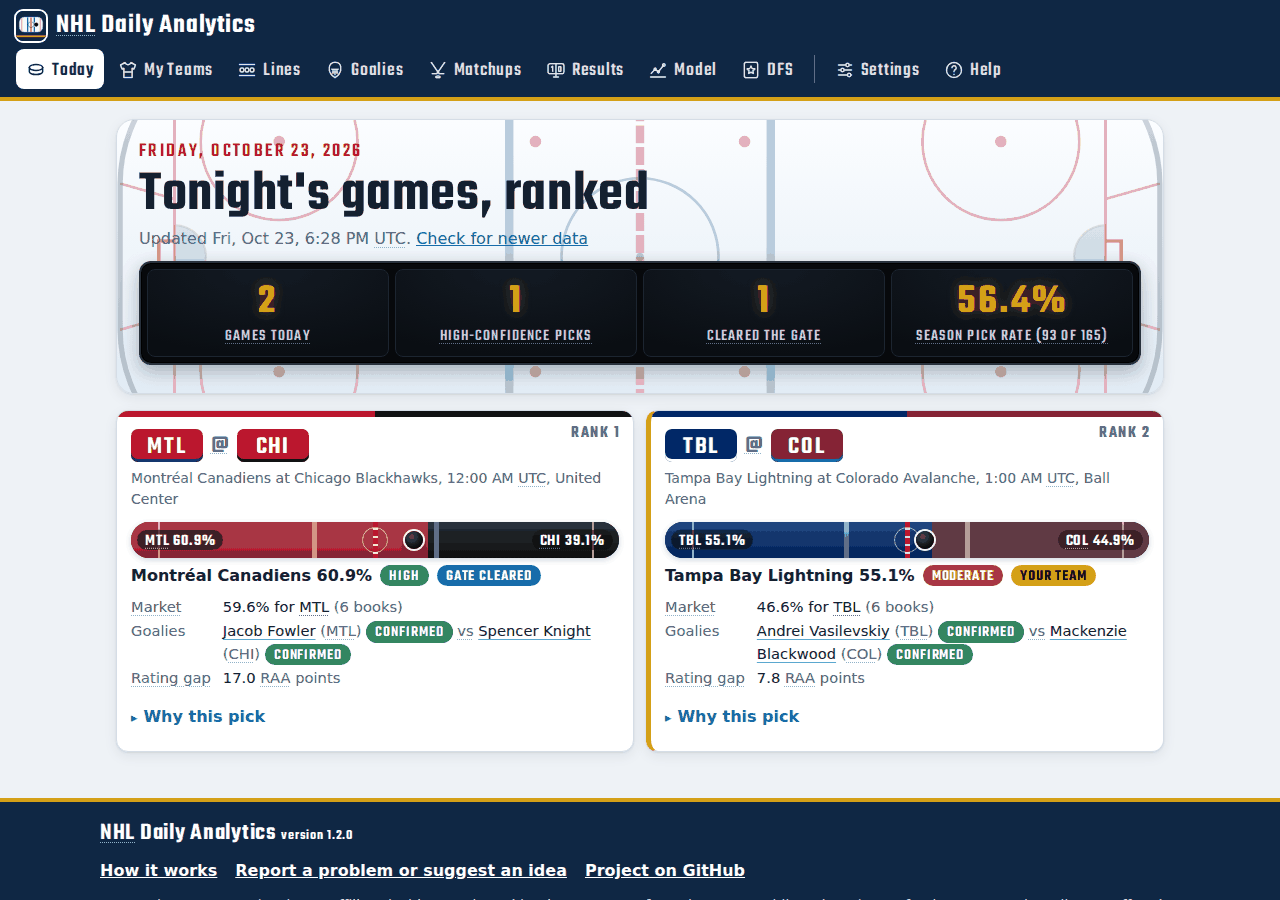
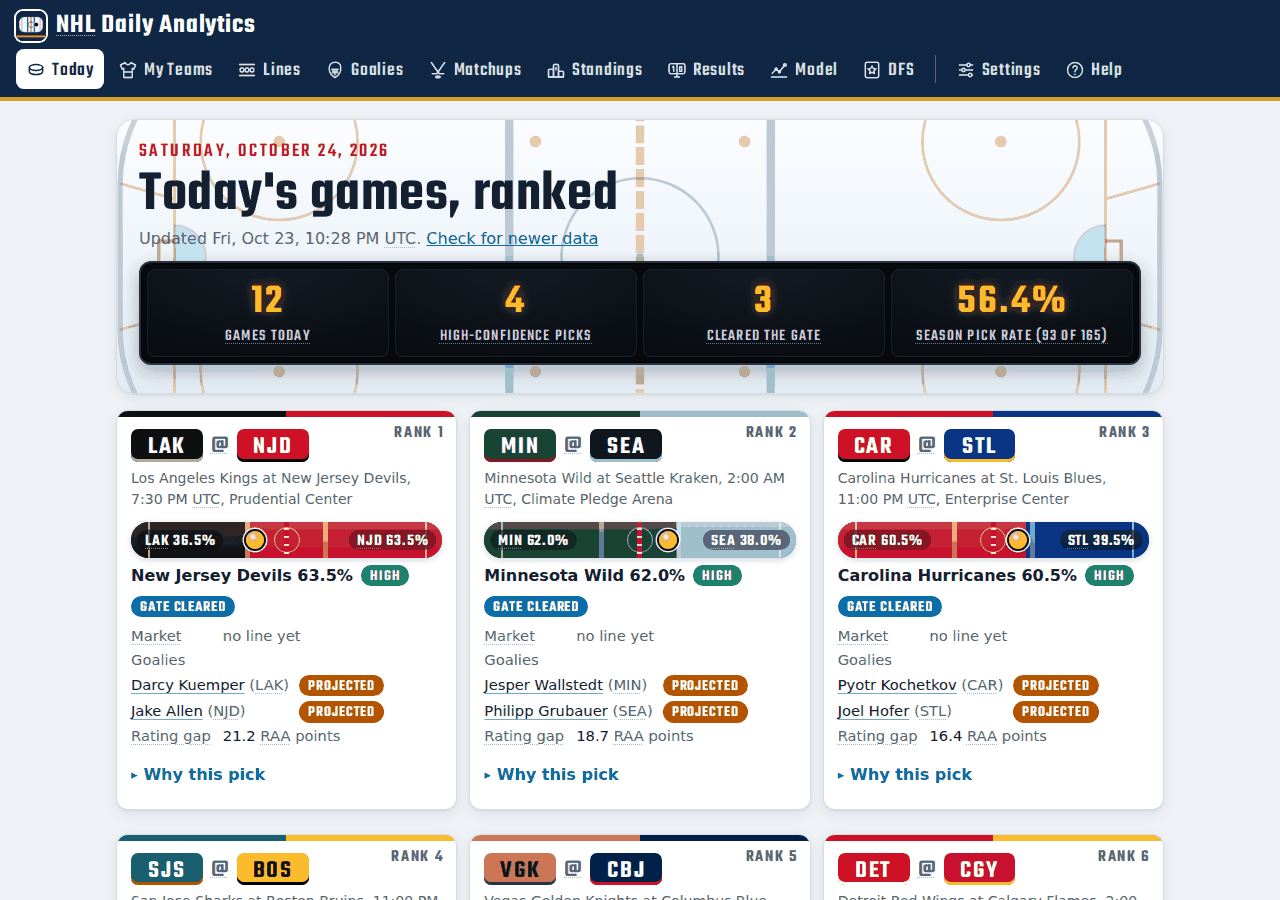
1.6.3: "Today's" instead of "Tonight's" across the app and docs
- The Today tab's heading reads "Today's games, ranked" (some games start in
  the afternoon). Every other "tonight's" in the app, Help, definitions,
  README and code comments now reads "today's".
- README screenshots of the Today tab refreshed.

Claude-Session: https://claude.ai/code/session_01XqpNinG5Pf12J6dGNoaPvS

diff --git a/app/js/glossary.js b/app/js/glossary.js
@@ -18,7 +18,7 @@ window.NDA_GLOSSARY = [
   ["Rest", "Days since the goalie's last start."],
   ["L3 / L5", "Last 3 games / last 5 games."],
   ["Shot share", "A team's shots on goal divided by all shots on goal in its games."],
-  ["Venue split", "Shot share at tonight's venue type (home or road), pulled toward the season rate while the sample is small."],
+  ["Venue split", "Shot share at today's venue type (home or road), pulled toward the season rate while the sample is small."],
   ["Line / Pair", "Forward lines 1 to 4 and defense pairs 1 to 3, from Daily Faceoff's current combinations, or rebuilt from the team's last game when that page is not available."],
   ["PP", "Power-play unit: PP1 first unit, PP2 second unit."],
   ["GP, G, A, P", "Games played, goals, assists, points (goals plus assists). Last 10 = the player's last 10 games this season; Season = this regular season. Preseason never counts."],
@@ -111,14 +111,14 @@ window.NDA_TIPS = {
     "Factor": "The five pillars that make up a team's RAA score, and the adjusted total.",
     "Home edge": "The home team's score minus the away team's. Positive favors the home team; home ice adds more on top.",
     "Tonight": "Whether the team plays at home or on the road tonight.",
-    "Venue shot%": "Shot share this season at tonight's venue type (home or road), pulled toward the season rate while the sample is small.",
-    "Venue GP": "Games played this season at tonight's venue type (home or road).",
+    "Venue shot%": "Shot share this season at today's venue type (home or road), pulled toward the season rate while the sample is small.",
+    "Venue GP": "Games played this season at today's venue type (home or road).",
     "L5 shot%": "Shot share over the last 5 games: the team's shots on goal divided by all shots on goal in those games.",
     "L3 shot%": "Shot share over the last 3 games.",
     "L3": "Wins and losses over the last 3 games.",
     "L3 vs L5": "Last-3-games shot share minus last-5-games shot share. Positive means the team is trending up.",
     "TOI share": "The missing player's share of his team's ice time, a measure of how much he plays.",
-    "Opp": "Tonight's opponent.",
+    "Opp": "Today's opponent.",
     "DK": "Projected DraftKings fantasy points for tonight.",
     "In use": "The model settings in use today.",
     "Baseline": "The settings from the 2025-26 calibration on 1,312 games.",

diff --git a/app/js/app.js b/app/js/app.js
@@ -4,7 +4,7 @@
    stats window) stay in this browser (localStorage). */
 (function () {
   "use strict";
-  const APP_VERSION = "1.6.2";
+  const APP_VERSION = "1.6.3";
   const REPO = "https://github.com/JBrady0850/nhl-daily-analytics";
   const PUBLIC_URL = "https://jbrady0850.github.io/nhl-daily-analytics/";
   const KEY = "nda:v1";
@@ -402,7 +402,7 @@
         ${nx && nx.matchups ? `<p class="small muted">${nx.matchups.map(esc).join(", ")}</p>` : ""}<p class="small">My Teams, Results and Model still update every day.</p></div>`;
     }
     const intro = st.teams.length ? "" : `<div class="note">Pick your teams in <button class="linkish" data-tab="myteams">My Teams</button> to see their lines every day and spot their games here.</div>`;
-    return `${hero("Tonight's games, ranked")}${dataNotes()}${intro}<div class="grid">${gs.map(gameCard).join("")}</div>`;
+    return `${hero("Today's games, ranked")}${dataNotes()}${intro}<div class="grid">${gs.map(gameCard).join("")}</div>`;
   }
 
   // ---------- pillars, form, absences ----------
@@ -673,7 +673,7 @@
   }
   function injSources(inj) {
     if (!inj || !inj.loaded) return "No injury report reached; missing players come from each team's last lineup only";
-    const names = { espn: "ESPN's injury report", hockey_reference: "Hockey-Reference's injury report", daily_faceoff: "Daily Faceoff's injured lists for tonight's teams" };
+    const names = { espn: "ESPN's injury report", hockey_reference: "Hockey-Reference's injury report", daily_faceoff: "Daily Faceoff's injured lists for today's teams" };
     const used = Array.isArray(inj.sources) ? inj.sources : String(inj.source || "").split("+");
     return `${esc(inj.rows)} players from ${used.map(u => esc(names[u] || u)).join(" and ")}`;
   }

diff --git a/app/index.html b/app/index.html
@@ -48,7 +48,7 @@
     <button data-tab="standings" role="tab"><svg class="ico" aria-hidden="true" focusable="false"><use href="#i-standings"></use></svg><span>Standings</span></button>
     <button data-tab="results" role="tab"><svg class="ico" aria-hidden="true" focusable="false"><use href="#i-results"></use></svg><span>Results</span></button>
     <button data-tab="model" role="tab"><svg class="ico" aria-hidden="true" focusable="false"><use href="#i-model"></use></svg><span>Model</span></button>
-    <button data-tab="dfs" role="tab" data-tip="Daily fantasy sports: projected DraftKings points for tonight's players."><svg class="ico" aria-hidden="true" focusable="false"><use href="#i-dfs"></use></svg><span>DFS</span></button>
+    <button data-tab="dfs" role="tab" data-tip="Daily fantasy sports: projected DraftKings points for today's players."><svg class="ico" aria-hidden="true" focusable="false"><use href="#i-dfs"></use></svg><span>DFS</span></button>
     <span class="tab-gap" aria-hidden="true"></span>
     <button data-tab="settings" role="tab"><svg class="ico" aria-hidden="true" focusable="false"><use href="#i-settings"></use></svg><span>Settings</span></button>
     <button data-tab="help" role="tab"><svg class="ico" aria-hidden="true" focusable="false"><use href="#i-help"></use></svg><span>Help</span></button>

diff --git a/app/sw.js b/app/sw.js
@@ -1,7 +1,7 @@
 /* Offline support for the app shell. Files come from the network first, so a
    connected device always gets the newest version and the newest data; the cached
    copy is used only when offline. Bump VERSION when the file list changes. */
-const VERSION = "nda-v1.6.2";
+const VERSION = "nda-v1.6.3";
 const FILES = ["./", "index.html", "css/style.css", "js/glossary.js", "js/app.js", "data/latest.js",
   "manifest.webmanifest", "icon.svg", "icon-180.png", "icon-192.png", "icon-512.png", "icon-maskable-512.png", "qr-app.png"];
 self.addEventListener("install", e => e.waitUntil(caches.open(VERSION).then(c => c.addAll(FILES)).then(() => self.skipWaiting())));

diff --git a/nhlda/intel.py b/nhlda/intel.py
@@ -631,7 +631,7 @@ class CombinedInjuries:
     """The injury lists the build could reach, in order of preference (ESPN,
     then Hockey-Reference, then Daily Faceoff). The first list that names a
     player supplies his note and its source tag. A player Daily Faceoff slots
-    into tonight's lineup counts as playing, whichever list names him."""
+    into today's lineup counts as playing, whichever list names him."""
 
     TAG = "INJ"
 
@@ -665,7 +665,7 @@ class CombinedInjuries:
 class DailyFaceoffInjuries:
     """Fallback injury list, used when the Hockey-Reference table cannot be
     reached (it refuses GitHub's servers). Each Daily Faceoff team
-    line-combination page lists the players it has out of tonight's lineup in
+    line-combination page lists the players it has out of today's lineup in
     an injured group (injured reserve, day to day, out), with the latest news
     note. Same interface as HockeyReferenceInjuries: by_team, loaded, get(),
     match_player(). The pages are the same ones the lines step reads, so the
@@ -713,7 +713,7 @@ class DailyFaceoffInjuries:
         except (json.JSONDecodeError, KeyError, TypeError, AttributeError):
             return False
         ab = str(team).upper()
-        # a player Daily Faceoff also slots into tonight's lineup (a line, a pair
+        # a player Daily Faceoff also slots into today's lineup (a line, a pair
         # or the goalie spot) is expected to play, whatever his tag says
         dressing = {p.get("playerId") or p.get("name") for p in players
                     if p.get("groupIdentifier") in self.LINEUP_GROUPS}
@@ -748,7 +748,7 @@ class DailyFaceoffInjuries:
 
 class HockeyReferenceInjuries:
     """A static HTML table: player, team, injury date, type, free-text note.
-    Skater-focused; not scoped to tonight's slate, so callers filter by team
+    Skater-focused; not scoped to today's slate, so callers filter by team
     and by recency. The note field usually names the reporting outlet, but it
     is prose, not a structured field -- shown as-is, not parsed further."""
 

diff --git a/tests/test_engine.py b/tests/test_engine.py
@@ -135,7 +135,7 @@ def test_daily_faceoff_injuries_read_the_injured_list():
     d = DailyFaceoffInjuries()
     assert d.add_page("mtl", page) is True
     names = [e["player_name"] for e in d.get("MTL")]
-    assert names == ["Juraj Slafkovsky", "Sam Montembeault"]       # Xhekaj is also in tonight's lineup
+    assert names == ["Juraj Slafkovsky", "Sam Montembeault"]       # Xhekaj is also in today's lineup
     hit = d.match_player("MTL", "Juraj Slafkovský")                  # accents differ between sources
     assert hit and hit["injury_type"] == "IR" and hit["injury_note"].startswith("Out two weeks")
     assert hit["date_injury"] == "2026-10-20"
@@ -206,7 +206,7 @@ def test_combined_injuries_prefer_espn_and_respect_the_lineup():
     assert both.loaded
     assert both.match_player("MTL", "Nick Suzuki")["tag"] == "ESPN"      # ESPN wins when both name him
     assert both.match_player("MTL", "Mike Matheson")["tag"] == "DFO"     # Daily Faceoff fills the gap
-    assert both.match_player("MTL", "Florian Xhekaj") is None            # in tonight's lineup: playing
+    assert both.match_player("MTL", "Florian Xhekaj") is None            # in today's lineup: playing
     assert {e["player_name"] for e in both.get("MTL")} >= {"Nick Suzuki", "Mike Matheson"}
     assert not CombinedInjuries([None, EspnInjuries()]).loaded           # nothing reached
 

diff --git a/nhlda/build.py b/nhlda/build.py
@@ -152,7 +152,7 @@ async def build(target_date, state_dir, out_dir, teams=None, use_dfo=True):
                 except Exception as exc:  # noqa: BLE001
                     problems.append(f"goalies: {exc}")
             # Injuries: ESPN's public feed first (it answers GitHub's servers), the
-            # injured lists on Daily Faceoff's team pages for tonight's teams (also
+            # injured lists on Daily Faceoff's team pages for today's teams (also
             # the lineup check), and Hockey-Reference only when ESPN cannot be read,
             # because Hockey-Reference refuses GitHub's servers. A note appears in
             # the app only when the main list is missing.

diff --git a/nhlda/raa_core.py b/nhlda/raa_core.py
@@ -79,7 +79,7 @@ def _clamp(v, lo, hi):
 # discriminating power at all.
 #
 # V34.1 addition: venue_shot_share carries this team's shot share in games at
-# the SAME venue as tonight's game (home split if this team is home, road
+# the SAME venue as today's game (home split if this team is home, road
 # split if this team is away), shrunk toward its season rate by sample size
 # (nhl_data.py TeamGameLog.venue_shot_share). l3_shot_share is a 3-game
 # recency window; it enters only as a momentum term against L5, not as a

diff --git a/README.md b/README.md
@@ -33,7 +33,7 @@ The app then opens full screen like any other app. The Settings tab repeats thes
 ## Pick your teams
 
 Open **My Teams** and tap any of the 32 teams. Each team you follow shows its record,
-its place in the standings (wild-card race, division, conference and league), tonight's
+its place in the standings (wild-card race, division, conference and league), today's
 game (if it plays), and its four forward lines and three defense pairs with
 each player's numbers over his last 10 games or the whole season. Your games are also
 marked on the Today and Goalies tabs.
@@ -87,7 +87,7 @@ always has the latest data.
 | Tab | What you see |
 | --- | --- |
 | **Today** | Every game ranked by the projected winner's win probability, with the confidence tier (HIGH, MODERATE, LOW), the market's view for comparison, both starting goalies, and a "Why this pick" breakdown. |
-| **My Teams** | The teams you follow: record, place in the wild-card race, division, conference and league, tonight's game, all four lines and three pairs with last-10 or season stats, and which line leads the team in points, shots and penalty minutes. |
+| **My Teams** | The teams you follow: record, place in the wild-card race, division, conference and league, today's game, all four lines and three pairs with last-10 or season stats, and which line leads the team in points, shots and penalty minutes. |
 | **Lines** | The four forward lines and three defense pairs of each game's projected winner, in rank order, with every player's stats (last 10 games or season) and line and pair totals. |
 | **Goalies** | Every probable starter tonight, highest season save percentage first, with goals saved above expected, high-danger save percentage, rest days and whether the start is confirmed. |
 | **Matchups** | Each game's five-factor scores side by side, recent shot share and form, and the key missing players. |
@@ -166,7 +166,7 @@ into lines and pairs.
 
 Missing players come from each team's last lineup plus the injury reports: ESPN's
 feed first, then the injured lists on Daily Faceoff's team pages for anyone ESPN does
-not list. A player Daily Faceoff puts in tonight's projected lineup counts as playing.
+not list. A player Daily Faceoff puts in today's projected lineup counts as playing.
 Hockey-Reference is read only when ESPN cannot be reached, because it refuses GitHub's
 servers. If ESPN is missing, or no injury report can be reached, a "Data note" says so
 on the Today and Matchups tabs and in Settings. Each missing player's note names its
